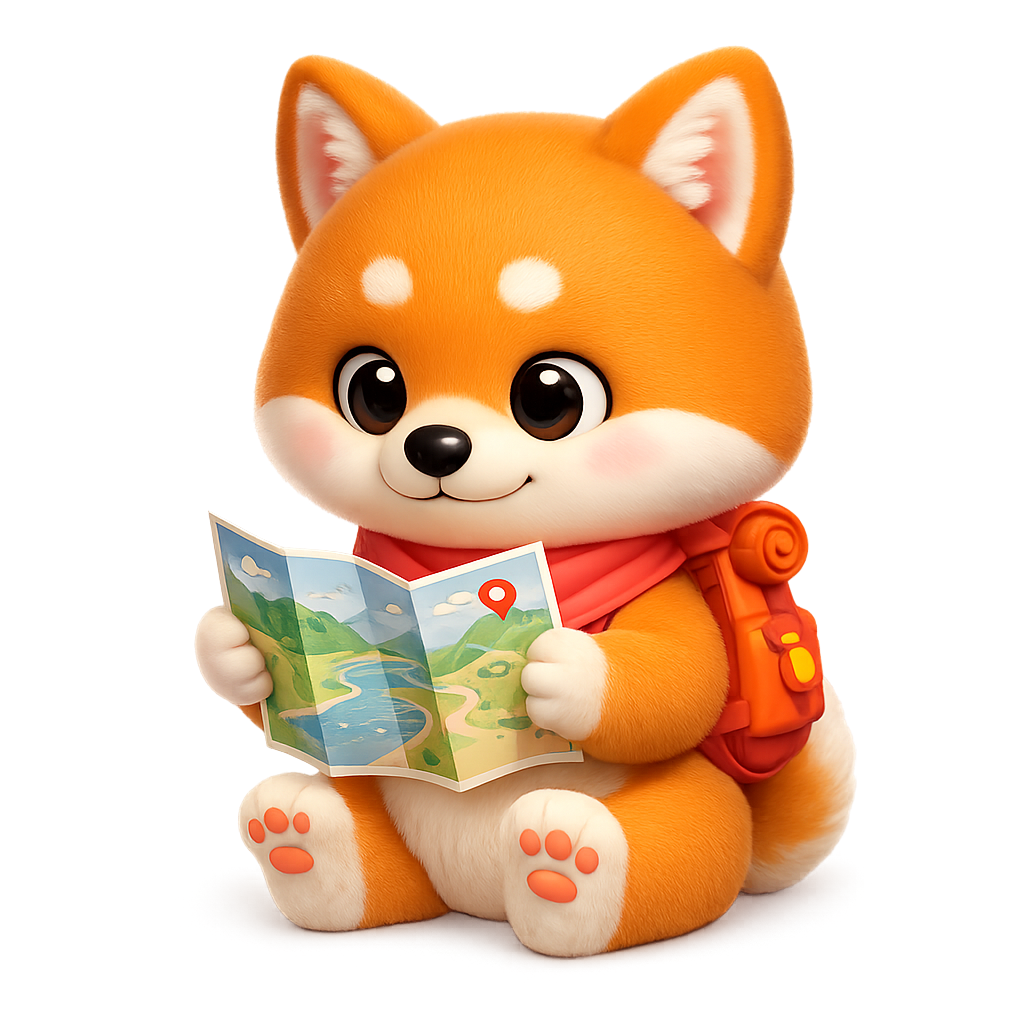
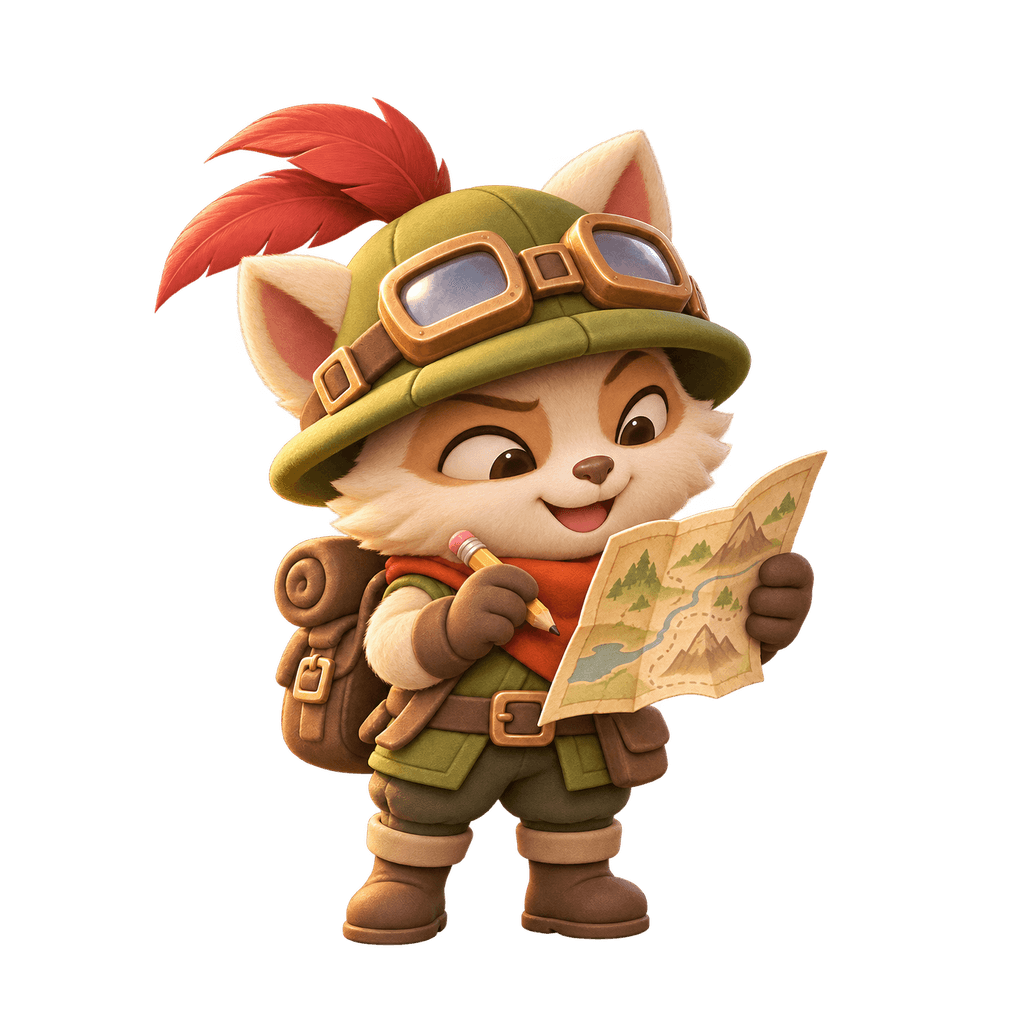
[FE-03] Them sau tu the Teemo va linh vat trang 404

diff --git a/vintrip/fe/apps/web/src/app/not-found.tsx b/vintrip/fe/apps/web/src/app/not-found.tsx
@@ -1,13 +1,15 @@
 import { vi } from '@vintrip/i18n';
+import Image from 'next/image';
 import Link from 'next/link';
 
 export default function NotFound() {
   return (
     <main id="content" className="ota-container empty-state">
-      <h1>{vi.demo.web.notFoundTitle}</h1>
+      <Image src="/brand/vini/vini-sad.png" alt="Linh vật ngồi buồn" width={200} height={200} />
+      <h1>Không tìm thấy trang này</h1>
       <p>{vi.demo.web.notFoundBody}</p>
-      <Link prefetch={false} href="/search" className="primary-button">
-        {vi.demo.common.explore}
+      <Link prefetch={false} href="/" className="primary-button">
+        Về trang chủ
       </Link>
     </main>
   );

diff --git a/vintrip/fe/apps/web/src/features/discovery/ota-hero.tsx b/vintrip/fe/apps/web/src/features/discovery/ota-hero.tsx
@@ -98,7 +98,7 @@ export function OtaHero() {
       </div>
 
       <div className={styles.rowerLayer} data-hero-layer="rower" aria-hidden="true">
-        <ViniMascot pose="action-depart" size={160} alt="" className={styles.rowerImage} />
+        <ViniMascot pose="hero-welcome" size={160} alt="" className={styles.rowerImage} />
       </div>
 
       <div className={styles.vectorLayer} data-hero-layer="vectors" aria-hidden="true">

diff --git a/vintrip/fe/apps/web/src/features/mascot/tripi-assets.ts b/vintrip/fe/apps/web/src/features/mascot/tripi-assets.ts
@@ -1,5 +1,11 @@
 // Giữ ID pose để các màn hình hiện có tiếp tục dùng chung bộ ảnh Vini.
 export const VINI_ASSETS = {
+  'ui-sad': {
+    src: '/brand/vini/vini-sad.png',
+    label: 'Linh vật buồn',
+    category: 'ui',
+    use: 'Trang lỗi, không tìm thấy trang',
+  },
   'hero-welcome': {
     src: '/brand/vini/vini-welcome.png',
     label: 'Vini chào đón',

diff --git a/docs/tracker/FE-BOARD.md b/docs/tracker/FE-BOARD.md
@@ -32,7 +32,7 @@
 |---|---|---|---|---|
 | FE-01 | Hệ thiết kế cam pastel: token màu, chữ, bo góc, bóng, trạng thái | **Claude** | — | XONG |
 | FE-02 | Bản đặc tả giao diện từng trang (bố cục, câu chữ theo CRO, trạng thái rỗng/lỗi/đang tải) | **Claude** | FE-01 | XONG |
-| FE-03 | Linh vật nguyên bản: 6 tư thế 3D nền trong suốt theo brief của PM | **Codex** | FE-01 | TODO |
+| FE-03 | Linh vật nguyên bản: 6 tư thế 3D nền trong suốt theo brief của PM | **Codex** | FE-01 | KẸT |
 | FE-04 | Khung chung: thanh đầu trang, chân trang, thanh điều hướng điện thoại | **Codex** | FE-01, FE-02 | TODO |
 | FE-05 | Trang chủ và trang kết quả tìm khách sạn `/search`: đầu trang, ô tìm kiếm, khối gợi ý, nền, danh sách + bộ lọc | **Codex** | FE-04 | TODO |
 | FE-06 | Trang chi tiết khách sạn `/hotels/[id]`: ảnh, chọn phòng, tiện nghi, đánh giá | **Antigravity** | FE-01, FE-02 | TODO |
@@ -84,7 +84,7 @@
 
 Brief nhân vật và 6 tư thế 3D nền trong suốt: chào, tò mò, lập kế hoạch, hướng dẫn, thành công, buồn (dùng cho trang lỗi). Thay vào `public/brand/vini/`, giữ tên file để không phải sửa code.
 
-**Ghi chú Codex 28/11/2026 — KẸT: chờ đặc tả FE-02.** Theo cập nhật PM, mọi ticket chờ đặc tả trong `docs/design/fe-redesign.md`; hiện tài liệu mới có mục 1, chưa có mục linh vật được chốt cho FE-03. Đã đọc brief và phân vùng file; chưa thay tài nguyên. Cần PM bổ sung đặc tả để triển khai đúng phạm vi.
+**Ghi chú Codex 28/11/2026 — KẸT: kiểm tra chung còn lỗi tìm kiếm (FE-05).** Theo yêu cầu mới của người dùng, dùng Teemo thay nhân vật nguyên bản; đã tạo 6 PNG trong `public/brand/vini/`, 1024×1024, alpha thật, 171.064–185.984 byte, thêm ảnh buồn vào `not-found.tsx`, ảnh chào trên hero, bỏ 3 PNG Tripi không còn dùng; prompt ở `vini/README.md`. Kiểm PNG bằng Sharp đạt. `pnpm typecheck`: chỉ lỗi route Google đã biết; `pnpm test`: 574 đạt, lỗi route Google và 2 test mặc định Nha Trang/Hà Nội có sẵn thuộc FE-05. Người dùng chọn để PM kiểm ảnh 1440px/390px; chưa tự chuyển CHỜ NGHIỆM THU khi test chung chưa đạt.
 
 ## FE-04 → FE-09 · Các trang (Codex: FE-04, FE-05, FE-08 · Antigravity: FE-06, FE-07, FE-09)
 

diff --git a/vintrip/fe/apps/web/public/brand/vini/README.md b/vintrip/fe/apps/web/public/brand/vini/README.md
@@ -1,0 +1,18 @@
+# Bộ linh vật — FE-03
+
+Ngày 28/11/2026, người dùng đổi yêu cầu từ nhân vật nguyên bản của FE-02 sang **Teemo**. Bộ này làm theo yêu cầu mới; không mô tả Teemo là nhân vật nguyên bản của Vintrip. Giữ tên file `vini-*` để các màn hình dùng chung không phải đổi hợp đồng tài nguyên.
+
+Công cụ: `image_gen` tích hợp của Codex. Ảnh chào là tham chiếu nhận diện cho năm tư thế còn lại. PNG 1024×1024, alpha trong suốt thật; đã nén palette bằng Sharp, không giữ nền ô caro hoặc nền trắng. Các bản gốc do ImageGen tạo vẫn được giữ ngoài repo trong thư mục generated_images.
+
+Prompt nhận diện: Teemo the cheerful small yordle scout from League of Legends, polished soft matte 3D toy style; fluffy cream-white face with broad cheek tufts, small dark nose, warm tan/brown fur, classic green scout cap with bronze goggles and red feather, brown travel backpack, orange-red scarf, green scout outfit and boots. Three-quarter front view, warm upper-left light, full body inside margins, approximately 80% canvas. Genuine alpha transparency; no text, logo, weapons, ground plane or background.
+
+Prompt từng tư thế (giữ nhận diện, ánh sáng và góc máy của ảnh chào):
+
+- `vini-welcome.png`: waving hello with one hand, smiling warmly.
+- `vini-curious.png`: head tilted, eyes opened curiously, holding travel binoculars up and peering through them.
+- `vini-planning.png`: holding an unfolded paper map and a small pencil, focused friendly expression.
+- `vini-guide.png`: standing upright, one arm pointing toward the right edge, friendly reassuring smile.
+- `vini-success.png`: jumping joyfully with both arms raised high, legs slightly bent mid-air, smiling.
+- `vini-sad.png`: sitting down, cap slightly tilted, sad open eyes, soft small mouth, no tears.
+
+Các ảnh Tripi PNG cũ không còn được tham chiếu đã được gỡ. PM kiểm tra ảnh trang ở 1440px và 390px theo lựa chọn của người dùng; Codex không khẳng định đã kiểm tra trực quan trang bằng trình duyệt.

diff --git a/spec.md b/spec.md
@@ -189,6 +189,7 @@ Trạng thái: chưa thực hiện, không thuộc phần hoàn thành CP2. `cos
 | 28/11/2026 · FE-04 | Đánh dấu KẸT: chờ đặc tả FE-02 cho khung chung | Chưa có mục header/footer/mobile nav trong tài liệu; giữ phân vùng Codex và Antigravity |
 | 28/11/2026 · FE-05 | Đánh dấu KẸT: chờ đặc tả FE-02 cho trang chủ và phụ thuộc FE-04 | Danh sách lỗi màu ở mục 1.3 chưa thay thế đặc tả trang; chưa đổi bố cục hoặc tự soạn thiết kế |
 | 28/11/2026 · FE-08 | Đánh dấu KẸT: chờ đặc tả FE-02 cho cảm hứng và phụ thuộc FE-04 | Chưa có đặc tả trang tương ứng; chưa sửa code FE, API hoặc vùng của Antigravity |
+| 28/11/2026 · FE-03 | Theo yêu cầu mới, thay linh vật bằng 6 tư thế Teemo; PNG 1024×1024 alpha, dưới 400KB, thêm ảnh buồn 404, giữ tên tài nguyên Vini | Dùng ImageGen tích hợp, giữ prompt trong brand/vini/README; PM kiểm ảnh trang theo lựa chọn người dùng. Kiểm PNG đạt; test toàn FE còn 2 kỳ vọng điểm đến cũ thuộc FE-05 và route Google đã biết |
 
 **Sau CP4 (đến 23:59 Thứ Bảy 28/11)** (sửa theo góp ý — không sửa chuẩn "đạt", câu thử, số bằng chứng, kết quả các lượt đã chạy)
 

diff --git a/vintrip/fe/apps/web/public/brand/README.md b/vintrip/fe/apps/web/public/brand/README.md
@@ -3,7 +3,7 @@
 Bundled from the approved mobile/design handoff. Font and photo attribution is recorded in `apps/mobile/assets/brand/README.md`.
 
 - `regular.ttf` and `bold.ttf` preserve the original Be Vietnam Pro font bytes.
-- Tripi PNGs and the Vintrip SVG use the approved local brand assets.
+- Mascot PNGs in `vini/` were replaced for FE-03; prompts and the user's Teemo direction are recorded in [`vini/README.md`](vini/README.md). The Vintrip SVG retains the existing brand asset.
 - Destination and hotel photographs illustrate the UI; they are not verified catalog media.
 - `home-hoi-an-lanterns.jpg` is [Khoi Tran’s photograph of Hội An](https://unsplash.com/photos/a-tree-with-a-bunch-of-colorful-paper-lanterns-hanging-from-its-branches-NPIJb6T4tO4), available under the Unsplash License.
 - `flight-sky.jpg` is [willy wo’s photograph of an airliner in the clouds](https://unsplash.com/photos/white-and-blue-airplane-under-white-clouds-during-daytime-pXnMG0FfSwA), available under the Unsplash License.
